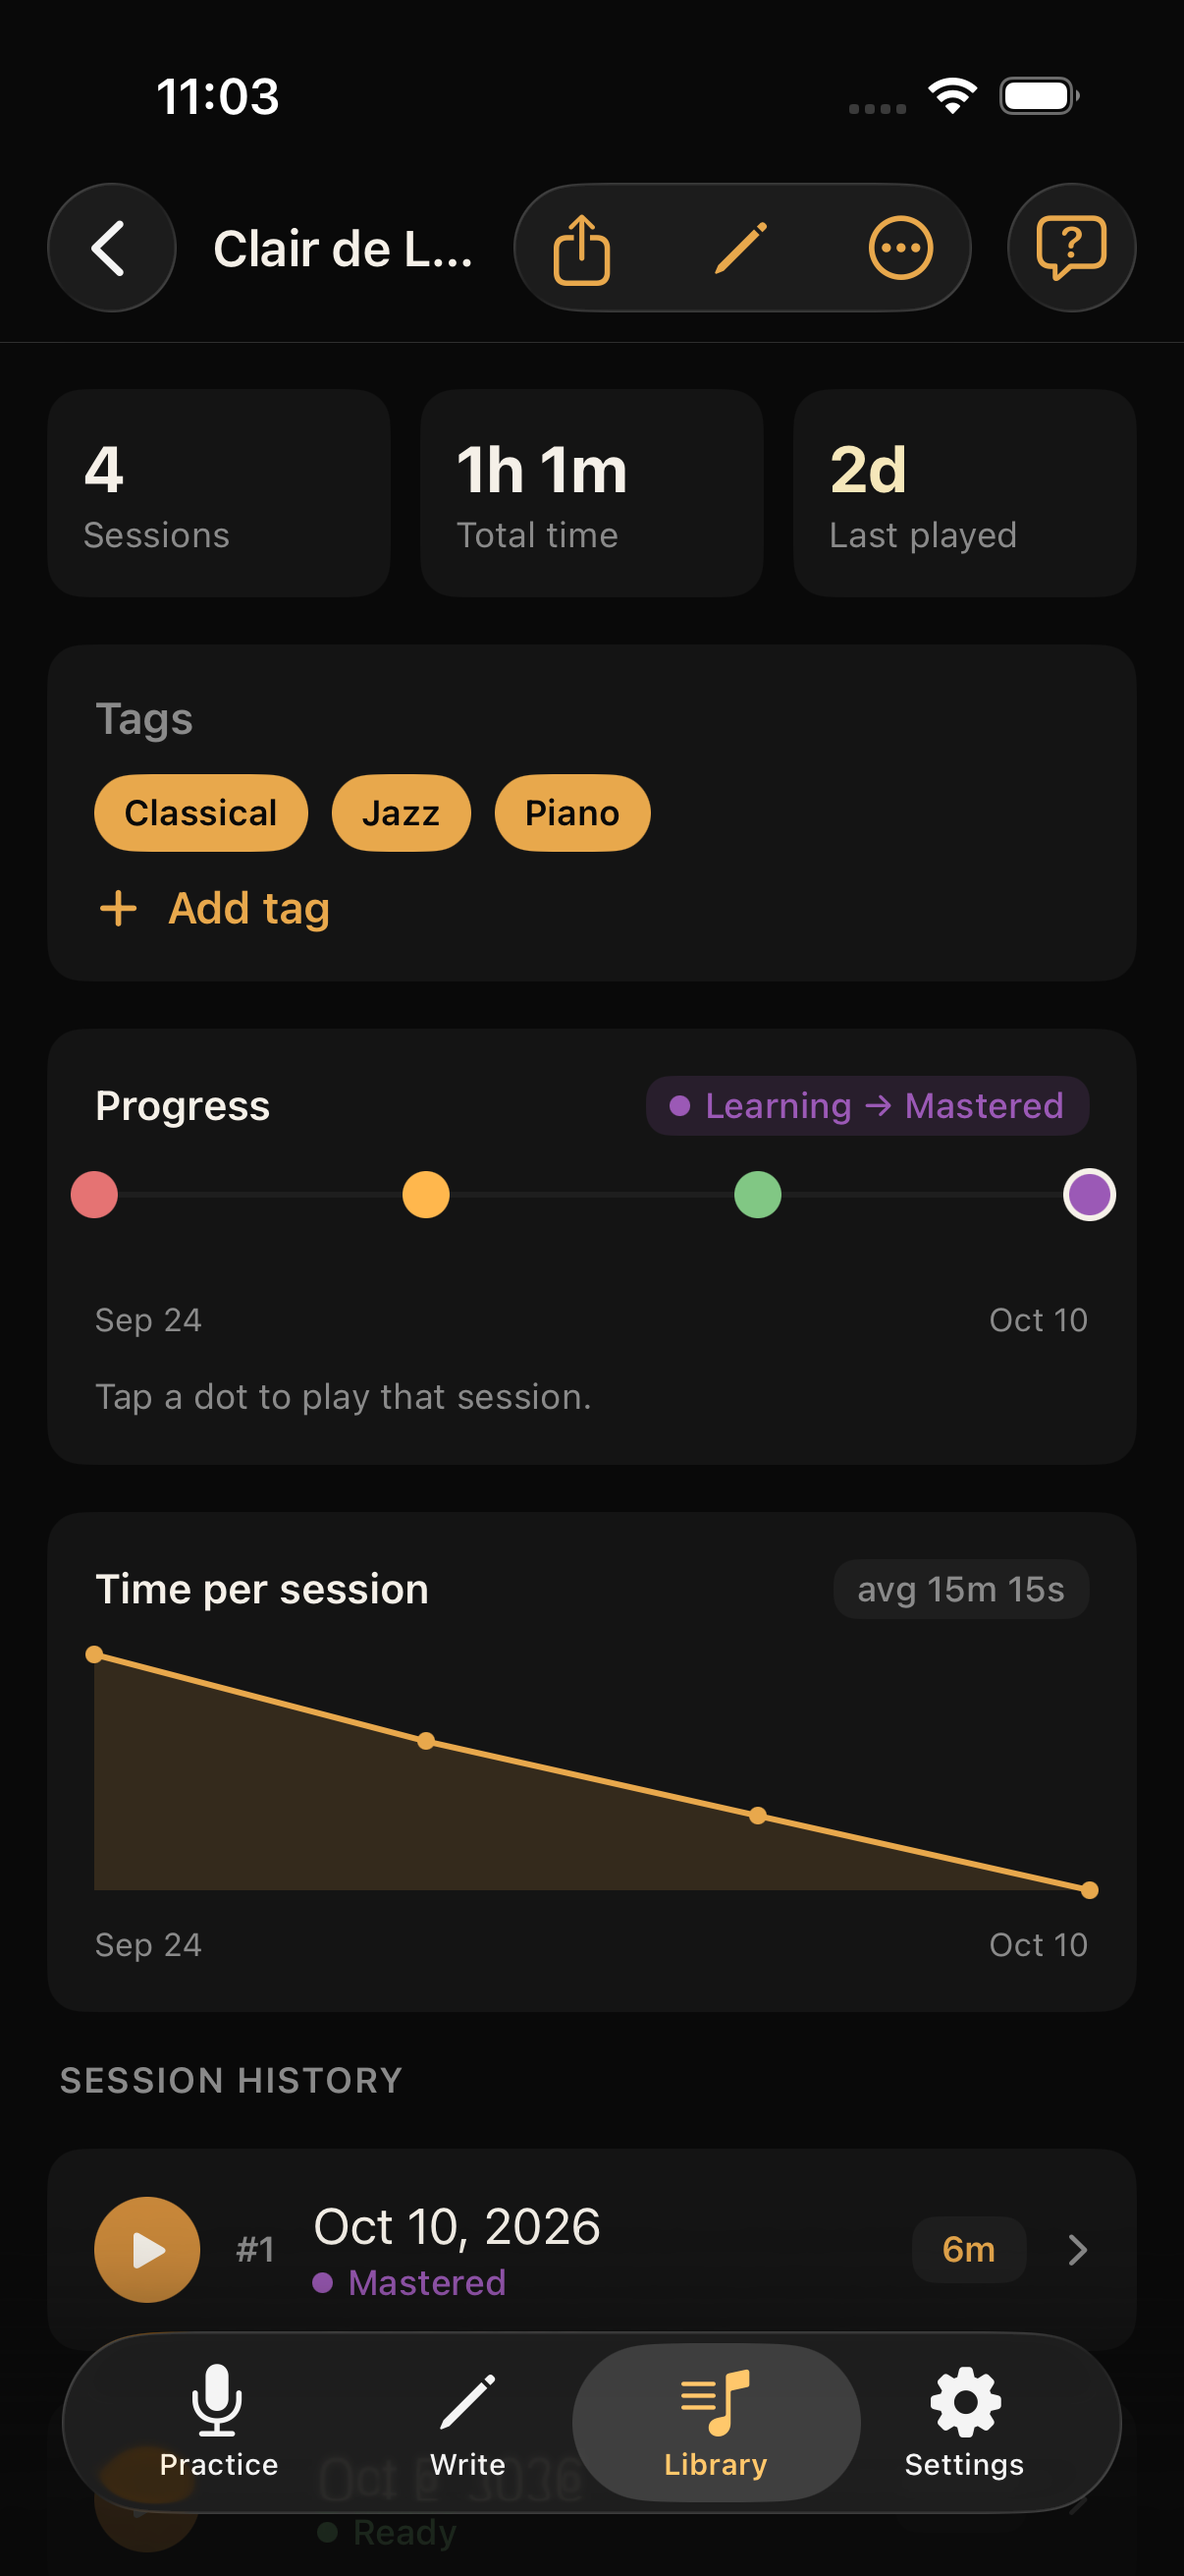
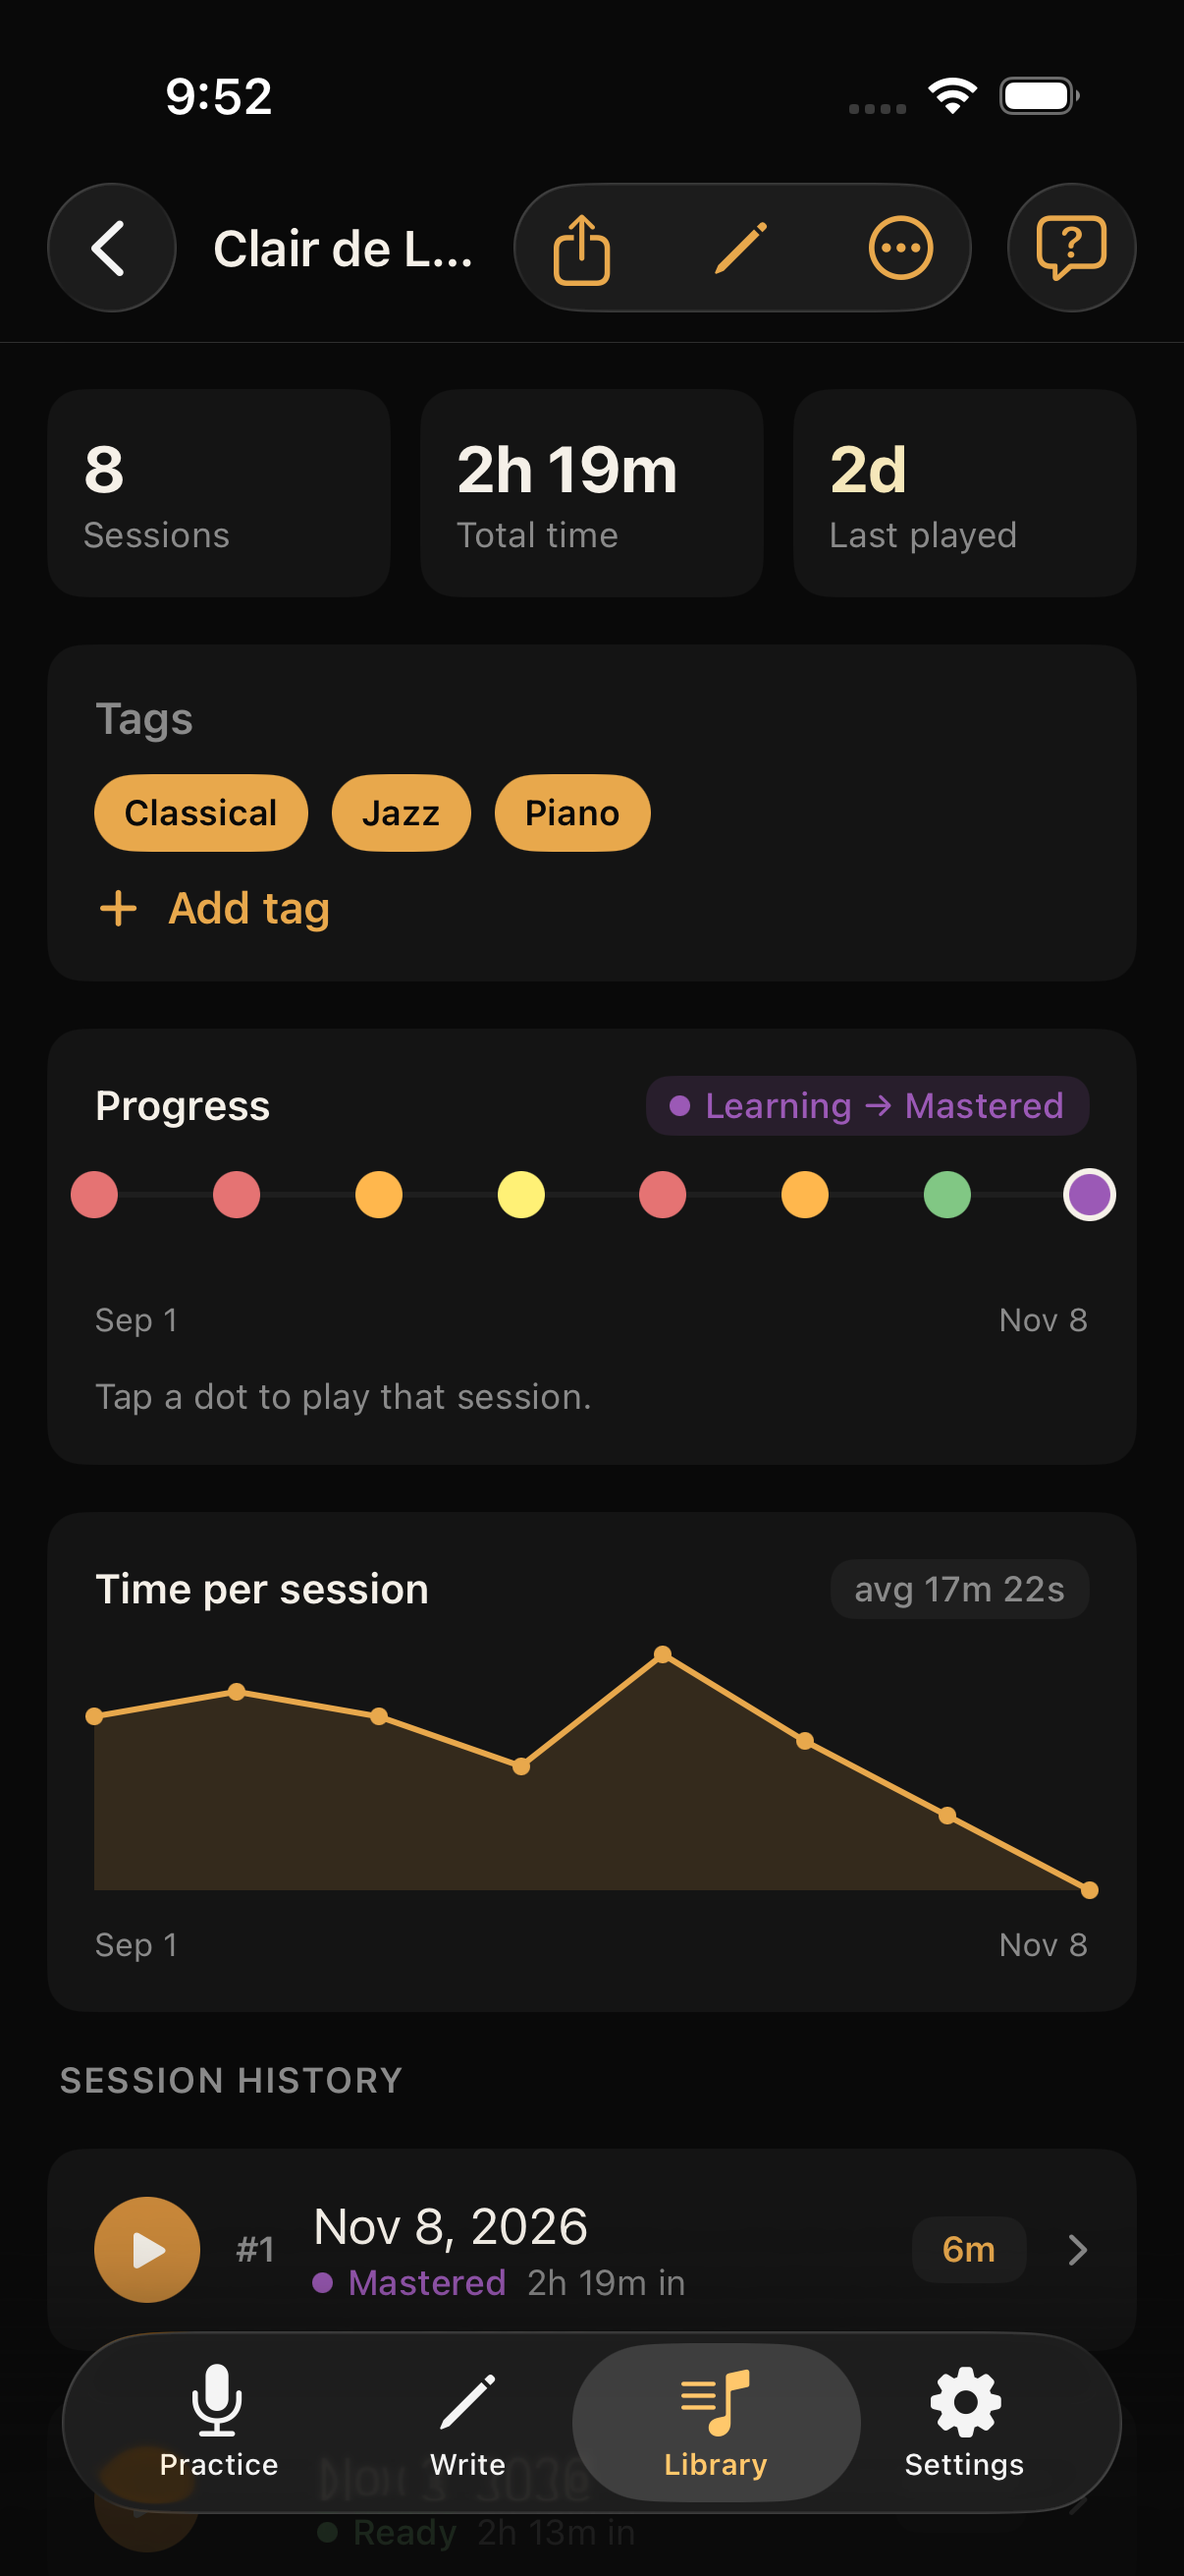
Add the practice log screenshot and refresh Practice captures. (#35)
The homepage already links log.png. This adds that image, and recaptures the Practice recording and piece screens so the session row and cumulative time match the app.

diff --git a/README.md b/README.md
@@ -68,7 +68,8 @@ its `writeScreenshot` call in `TabSmokeTests.testCaptureMarketingScreenshots`.
 | `room.jpg` | Practice-room photograph (hero) | Hero | Never from the Simulator; this is artwork |
 | `recording.png` | Practice while recording | Practice, beat 1 | Recording UI, Practice chrome, tab bar |
 | `session.png` | Session review | Practice, beat 2 | Segments, match chips, ratings |
-| `piece.png` | Piece detail | Practice, beat 3 | Piece stats, progress, session history |
+| `log.png` | Practice log | Practice, beat 3 | Totals, weeks, pieces, months |
+| `piece.png` | Piece detail | Practice, beat 4 | Piece stats, progress, session history |
 | `idea.png` | Idea detail, opened from Write | Write | Idea detail, takes, tags |
 | `library.png` | Library | Library, beat 1 | Library rows, filters, pieces vs ideas |
 | `library-listen.png` | Library listen sheet with matches | Library, beat 2 | Search by playing, Piece and Idea rows |
